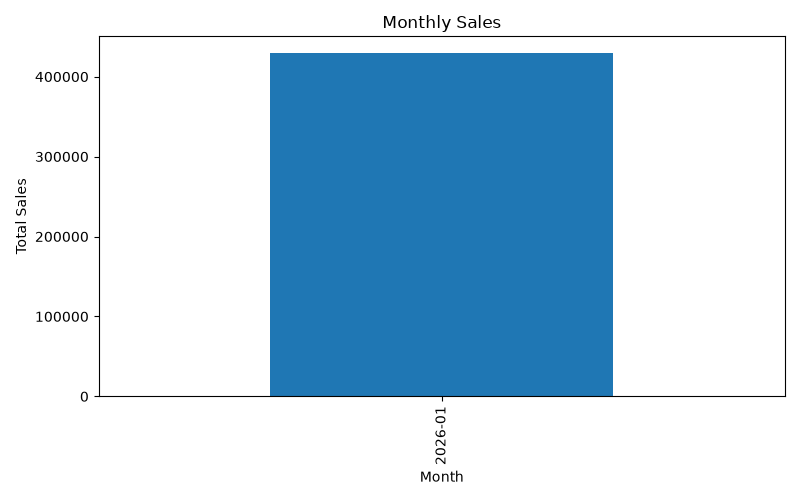
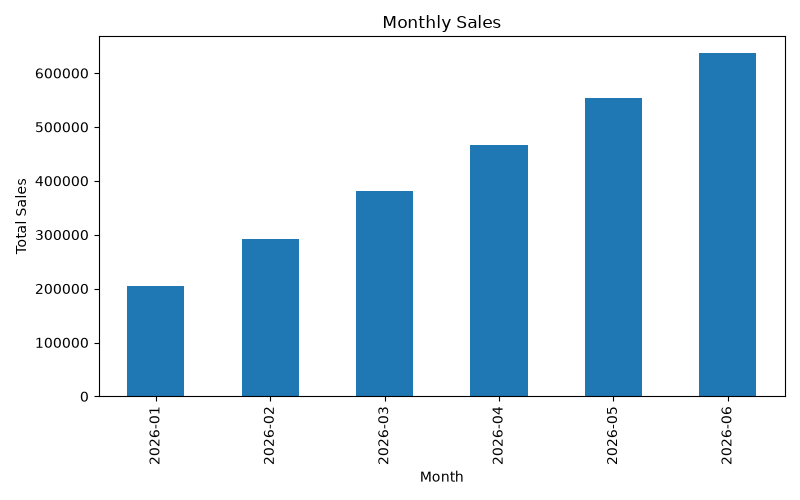
Update sales analysis API and data processing

diff --git a/api.py b/api.py
@@ -1,11 +1,8 @@
-from fastapi import FastAPI
+from fastapi import FastAPI, HTTPException
 import pandas as pd
+import os
 
-
-# =========================================================
 # CREATE FASTAPI APPLICATION
-# =========================================================
-
 app = FastAPI(
     title="Sales Analysis API",
     description="API for retrieving and analyzing sales data",
@@ -13,27 +10,99 @@ app = FastAPI(
 )
 
 
-# =========================================================
-# LOAD SALES DATA
-# =========================================================
+# ==========================================
+# LOAD AND VALIDATE SALES DATA
+# ==========================================
 
-df = pd.read_csv("data/sales_data.csv")
+FILE_PATH = "data/sales_data.csv"
+
+try:
+    df = pd.read_csv(FILE_PATH)
+
+except FileNotFoundError:
+    raise HTTPException(
+        status_code=404,
+        detail="Sales data file not found.Please ensure the file exists."
+    )
+
+except Exception as e:
+    print(f"Error loading sales data: {e}")
+    df = pd.DataFrame()
 
 
-# =========================================================
-# DATA PROCESSING
-# =========================================================
+# ==========================================
+# DATA VALIDATION AND CLEANING
+# ==========================================
 
-# Convert Date column to date format
-df["Date"] = pd.to_datetime(df["Date"])
+if not df.empty:
 
-# Calculate Total Sales
-df["Total_Sales"] = df["Quantity"] * df["Price"]
+    required_columns = [
+        "Date",
+        "Product",
+        "Category",
+        "Quantity",
+        "Price"
+    ]
+
+    missing_columns = [
+        column for column in required_columns
+        if column not in df.columns
+    ]
+
+    if missing_columns:
+        raise HTTPException(
+            status_code=400,
+            detail=f"Missing required columns: {missing_columns}"
+        )
+
+    # Convert Date
+    df["Date"] = pd.to_datetime(
+        df["Date"],
+        errors="coerce"
+    )
+
+    # Convert numeric columns
+    df["Quantity"] = pd.to_numeric(
+        df["Quantity"],
+        errors="coerce"
+    )
+
+    df["Price"] = pd.to_numeric(
+        df["Price"],
+        errors="coerce"
+    )
+
+    # Remove duplicates
+    df = df.drop_duplicates()
+
+    # Remove invalid/missing values
+    df = df.dropna(
+        subset=[
+            "Date",
+            "Product",
+            "Category",
+            "Quantity",
+            "Price"
+        ]
+    )
 
 
-# =========================================================
-# HOME ENDPOINT
-# =========================================================
+# ==========================================
+# CALCULATE TOTAL SALES
+# ==========================================
+
+if not df.empty:
+    df["Total_Sales"] = df["Quantity"] * df["Price"]
+
+
+# ==========================================
+# CREATE YEAR AND MONTH COLUMNS
+# ==========================================
+
+if not df.empty:
+    df["Year"] = df["Date"].dt.year
+    df["Month"] = df["Date"].dt.to_period("M")
+
 
 @app.get("/")
 def home():

diff --git a/data_processing.py b/data_processing.py
@@ -1,0 +1,29 @@
+import pandas as pd
+def load_data(file_path):
+    #Load sales data from a CSV file.
+    df = pd.read_csv(file_path)
+    return df
+def clean_data(df):
+    #clean snd prepare the sales data for analysis.
+    #remove duplicate rows
+    df = df.drop_duplicates()
+    #remove rows with missing values
+    df=df.dropna()
+    #convert date column
+    df["Date"]=pd.to_datetime(df["Date"])
+    return df
+def process_data(file_path):
+    #Load and clean the sales data.
+    df = load_data(file_path)
+    print("Data loaded successfully.")
+    print("Original shape:", df.shape)
+    df = clean_data(df)
+    return df
+#Run pipeline 
+sales_data=process_data("data/sales_data.csv")
+print("\n Processed data: ")
+print(sales_data.head())
+    
+
+
+    
